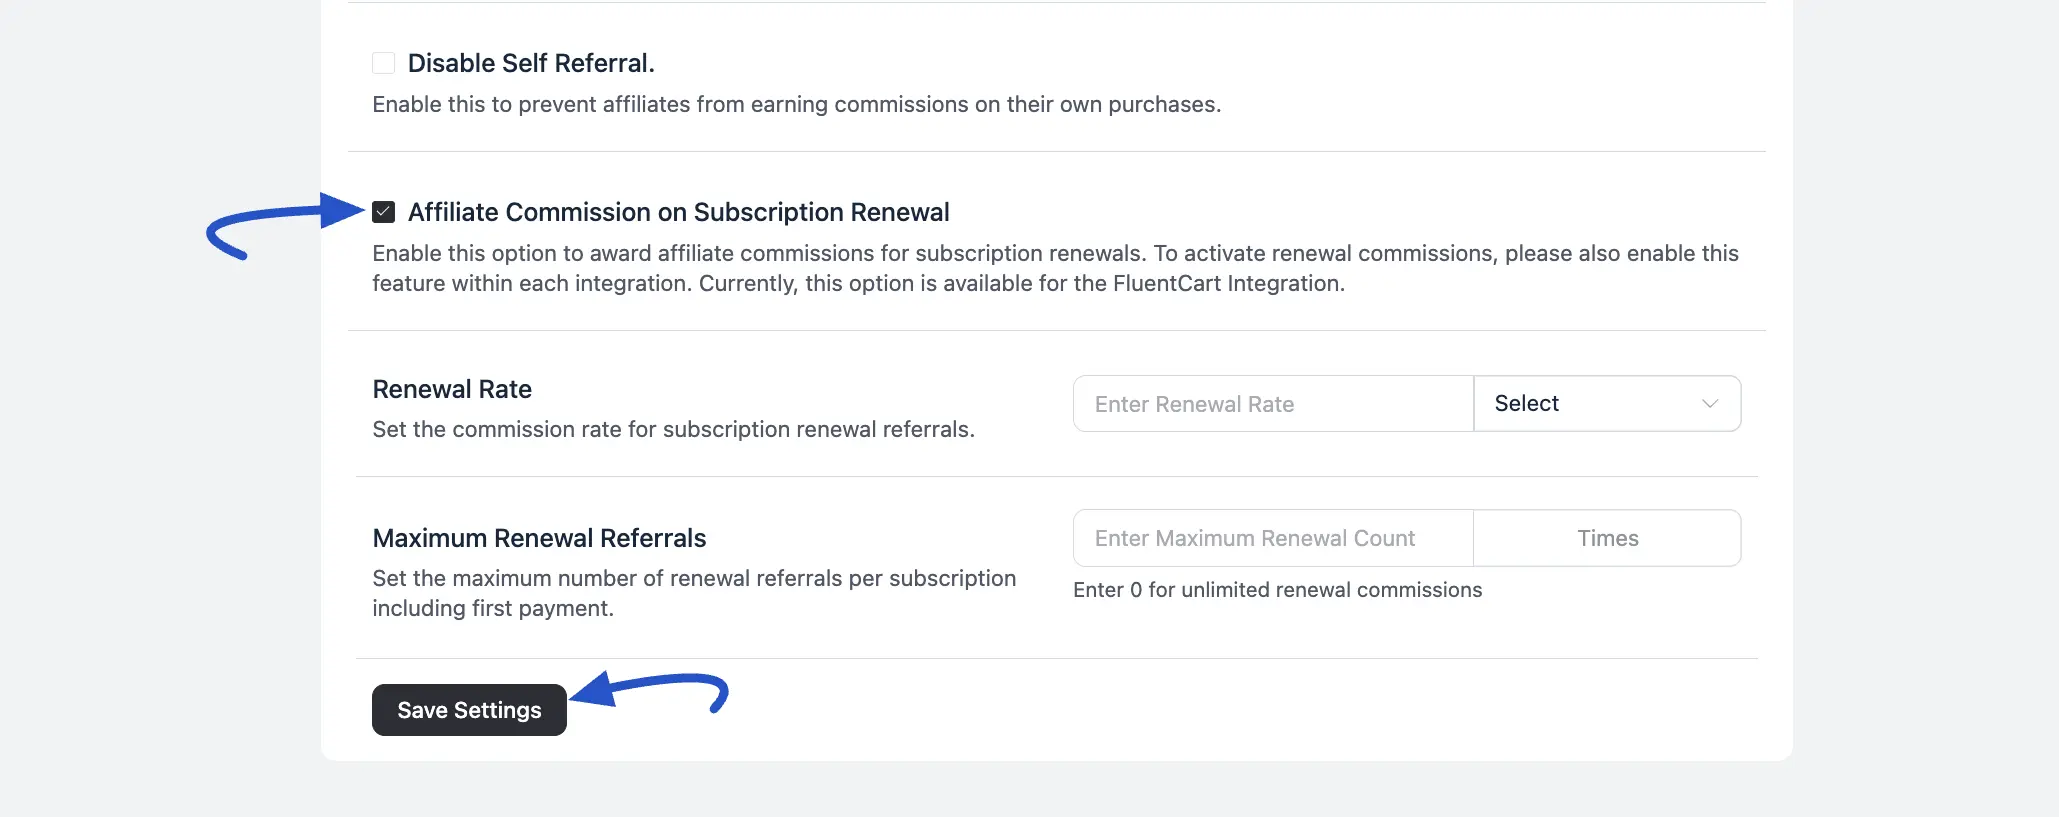
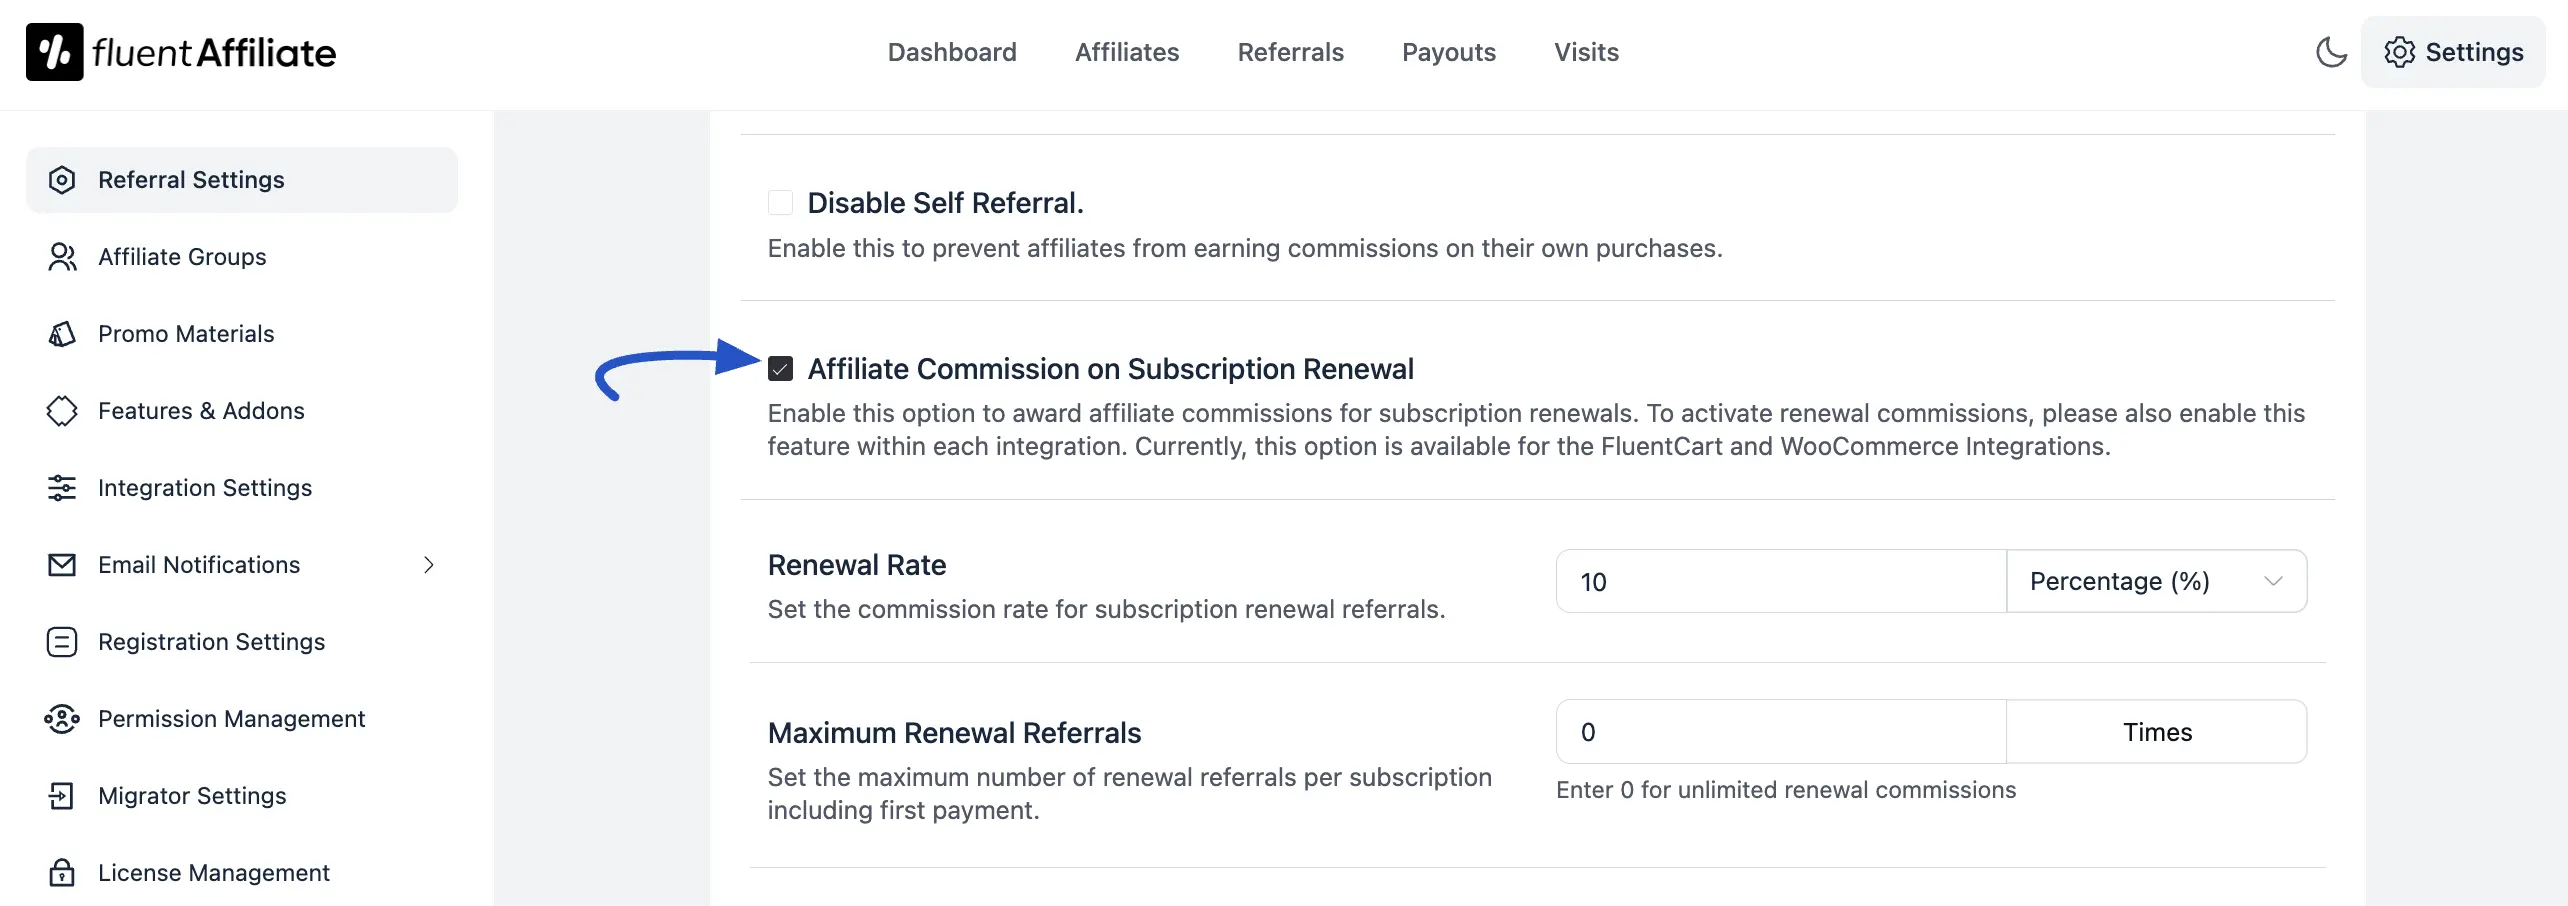
update referral and group setting

diff --git a/guide/settings-and-customization/group-settings.md b/guide/settings-and-customization/group-settings.md
@@ -5,41 +5,56 @@ description: Learn how to create and manage affiliate groups in FluentAffiliate.
 
 # Group Settings
 
-FluentAffiliate lets you create affiliate groups with different commission rates. You can easily assign a group to any affiliate to apply the group's rate settings. This feature helps you manage different tiers of affiliates with varying commission.
+Managing a growing affiliate program means realizing that not all affiliates are the same. Some partners bring in more sales, while others might be part of a special promotional team. Instead of manually changing commission rates for every single person, you can use Affiliate Groups to keep things organized.
 
-When creating a new affiliate or editing an existing one:
-1. Look for the **Affiliate Type** field in their profile
-2. Select the desired group from the dropdown
-3. The selected group's commission rate will automatically apply to that affiliate commission structures.
+Affiliate Groups let you bundle your partners into tiers - like a VIP tier or an onboarding tier—and give each group its own special commission rules.
 
-## Accessing Affiliate Group Settings
+## Accessing Affiliate Groups
 
-To access the Affiliate Group settings, navigate from your WordPress dashboard to **FluentAffiliate → Settings → Affiliate Groups**.
+Setting up groups is simple and only takes a few steps from your site's backend:
+
+1. Log in to your **WordPress Dashboard**.
+2. Go to **FluentAffiliate → Settings** from the left-hand menu.
+3. Click on **Affiliate Groups** from the left sidebar panel.
 
 ![Group Settings](/images/settings-and-customization/group/group-settings-overview.webp)
 
 
-### Creating a New Affiliate Group
+## Creating a New Affiliate Group
 
-From the Affiliate Groups page, click the **Add New Group** button. You will need to configure the following details:
+If you want to build a new tier for your partners, follow these quick steps:
 
-* **Name:** Enter a name for your affiliate group.
-* **Rate Type:** Choose whether the commission will be a:
-    * Flat amount
-    * Percentage
-* **Rate:** Set the commission value (percentage or flat rate per referral).
-* **Status:** Select the group's status:
-    * Active
-    * Inactive
-* **Note:** Add optional notes for the group.
+1. Click the **Add New Group** button on your Affiliate Groups dashboard.
+2. A form panel will slide in from the right side of your screen. Fill out the following options:
 
-Once you have filled in the details, click the **Create** button to save the group.
+ * **Name:** Enter a clear name for your group so you can recognize it later (e.g., "VIP High Rollers" or "First Group").
+ * **Rate Type:** Choose how the affiliates in this group will be rewarded. You can pick a **Flat** amount or a **Percentage**.
+ * **Rate:** Type the numerical commission value based on the rate type you picked (e.g., enter 10 for a flat $10 payout or 10% rate).
+ * **Status:** Set the starting status of this group. You can choose from **Active, Pending, Cancelled, or Rejected**.
+
 
 ![Group Creation](/images/settings-and-customization/group/create-new-group.webp)
 
-### Managing Existing Groups
+### Custom Lifetime Commissions for Groups
 
-After creating a group, it will appear in a list in the Affiliate Groups section. To manage an existing group, find it in the list, click the three-dot menu, and choose to either **Edit** the group settings or **Delete** the group.
+If you want members of this specific group to get rewarded for future direct purchases made by customers they originally brought in, scroll down to the custom section:
+
+Check the box for "**Enable custom lifetime commission for this group**".
+
+ * **Lifetime Rate:** Set the specific reward value (Percentage or Fixed amount) for any repeat purchases made by their referred customers without a link.
+
+ * **Expiration:** Enter the number of days this lifetime relationship should stick around before resetting. If you leave this field empty or type `0`, the connection never expires!
+
+Once you are done adjusting all the fields, click the **Create** button to save your new group.
+
+![Create Lifetime Comminssion](/images/settings-and-customization/group/custom-lifetime-commission-3.webp)
+
+### Managing and Assigning Groups
+
+After hitting save, your newly created tier will appear in a neat list on your main Affiliate Groups section.
+
+ * **Editing or Deleting Tiers:** If you want to change a group's rate or remove it completely? Just click the **three-dot** action menu next to the group name to select **Edit** or **Delete**.
+ * **Putting Affiliates Into Groups:** When you are creating a new affiliate profile or editing an existing user, just find the **Affiliate Type** dropdown field and choose your group from the menu. The group's custom payout rules will automatically replace your global site rates for that specific partner!
 
 ![Group Management](/images/settings-and-customization/group/group-management.webp)
 

diff --git a/guide/settings-and-customization/referral-settings.md b/guide/settings-and-customization/referral-settings.md
@@ -59,7 +59,7 @@ This section allows you to configure page assignments, cost exclusions, and rule
 This feature allows you to reward affiliates for recurring subscription payments. 
 
 >[!Note]
->To use this feature, you need [FluentAffiliate Pro](https://fluentaffiliate.com/discount-deal/).
+>To use this feature, you need [FluentAffiliate Pro](https://fluentaffiliate.com/pricing/).
 
  * **Enable Option:** Check the box to award affiliate commissions for subscription renewals.
  * **Renewal Rate:** Set the specific commission rate (Flat or Percentage) for these recurring referrals.
@@ -68,7 +68,19 @@ This feature allows you to reward affiliates for recurring subscription payments
  Once activated, you’ll find this feature available in WooCommerce and FluentCart integration settings.
 
 
-After configuring all your settings, click the **Save Settings** button to apply the changes.
-
 ![Subscription Renewal](/images/settings-and-customization/referral/comission-Renewal.webp)
 
+### Lifetime Commissions
+
+The **Lifetime Commissions** feature allows affiliates to continue earning commissions from customers they originally referred. Once a customer is linked to an affiliate, that affiliate will receive commissions on future purchases made by the customer, even if they return and purchase directly without using a referral link.
+
+>[!Note]
+> You must have [FluentAffiliate Pro](https://fluentaffiliate.com/pricing/) installed and activated to use this feature.
+
+ * **Enable Lifetime Commissions:** **Turn** on this option to enable lifetime commissions across your affiliate program. The customer's first purchase will follow your standard commission rules, while future direct purchases will use the lifetime commission settings.
+ * **Lifetime Rate:** Set a dedicated lifetime commission rate (either a fixed amount or a percentage) applied to future direct purchases.
+ * **Expiration:** Specify how long the affiliate-customer relationship remains active after the initial referral. Enter the number of days the tracking should remain valid. Leave the field empty or set it to **0** to keep the relationship active indefinitely.
+
+After configuring all your choices, click the **Save Settings** button at the bottom of the screen to apply your changes.
+
+![Lifetime Commission](/images/settings-and-customization/referral/lifetime-commission-7.webp)

diff --git a/guide/changelog/changelog.md b/guide/changelog/changelog.md
@@ -5,6 +5,22 @@ description: View the complete FluentAffiliate changelog. Track plugin updates, 
 
 # Changelogs
 
+#### 1.5.0 – Jun 22, 2026
+
+* Introduced: Lifetime Commissions
+* Added: Ultimate Affiliate Data Migration
+* Improved: Migration Performance and Memory Use on Large Datasets
+* Improved: Affiliate Portal Sidebar and Body Equal Height
+* Security: Hardened Input Sanitization and v-html XSS Sinks in Admin and Portal
+* Security: Fixed CSRF on Manual Update-Check Trigger
+* Fixed: Doubled FluentCart Commission on Setup Fee
+* Fixed: Self-Referral Not Blocked When Disabled
+* Fixed: Duplicate Customers and Payouts on Migration Re-Run
+* Fixed: Earnings Recount and Payout Totals During Migration
+* Fixed: Null Check After Referral Recording in Integrations
+* Fixed: Dark Mode Background Leaking to All Admin Pages
+* Fixed: FluentCRM Manage Button URL in Features & Addons
+
 #### 1.4.0 – Apr 10, 2026
 
 * Introduced: SliceWP Migration
